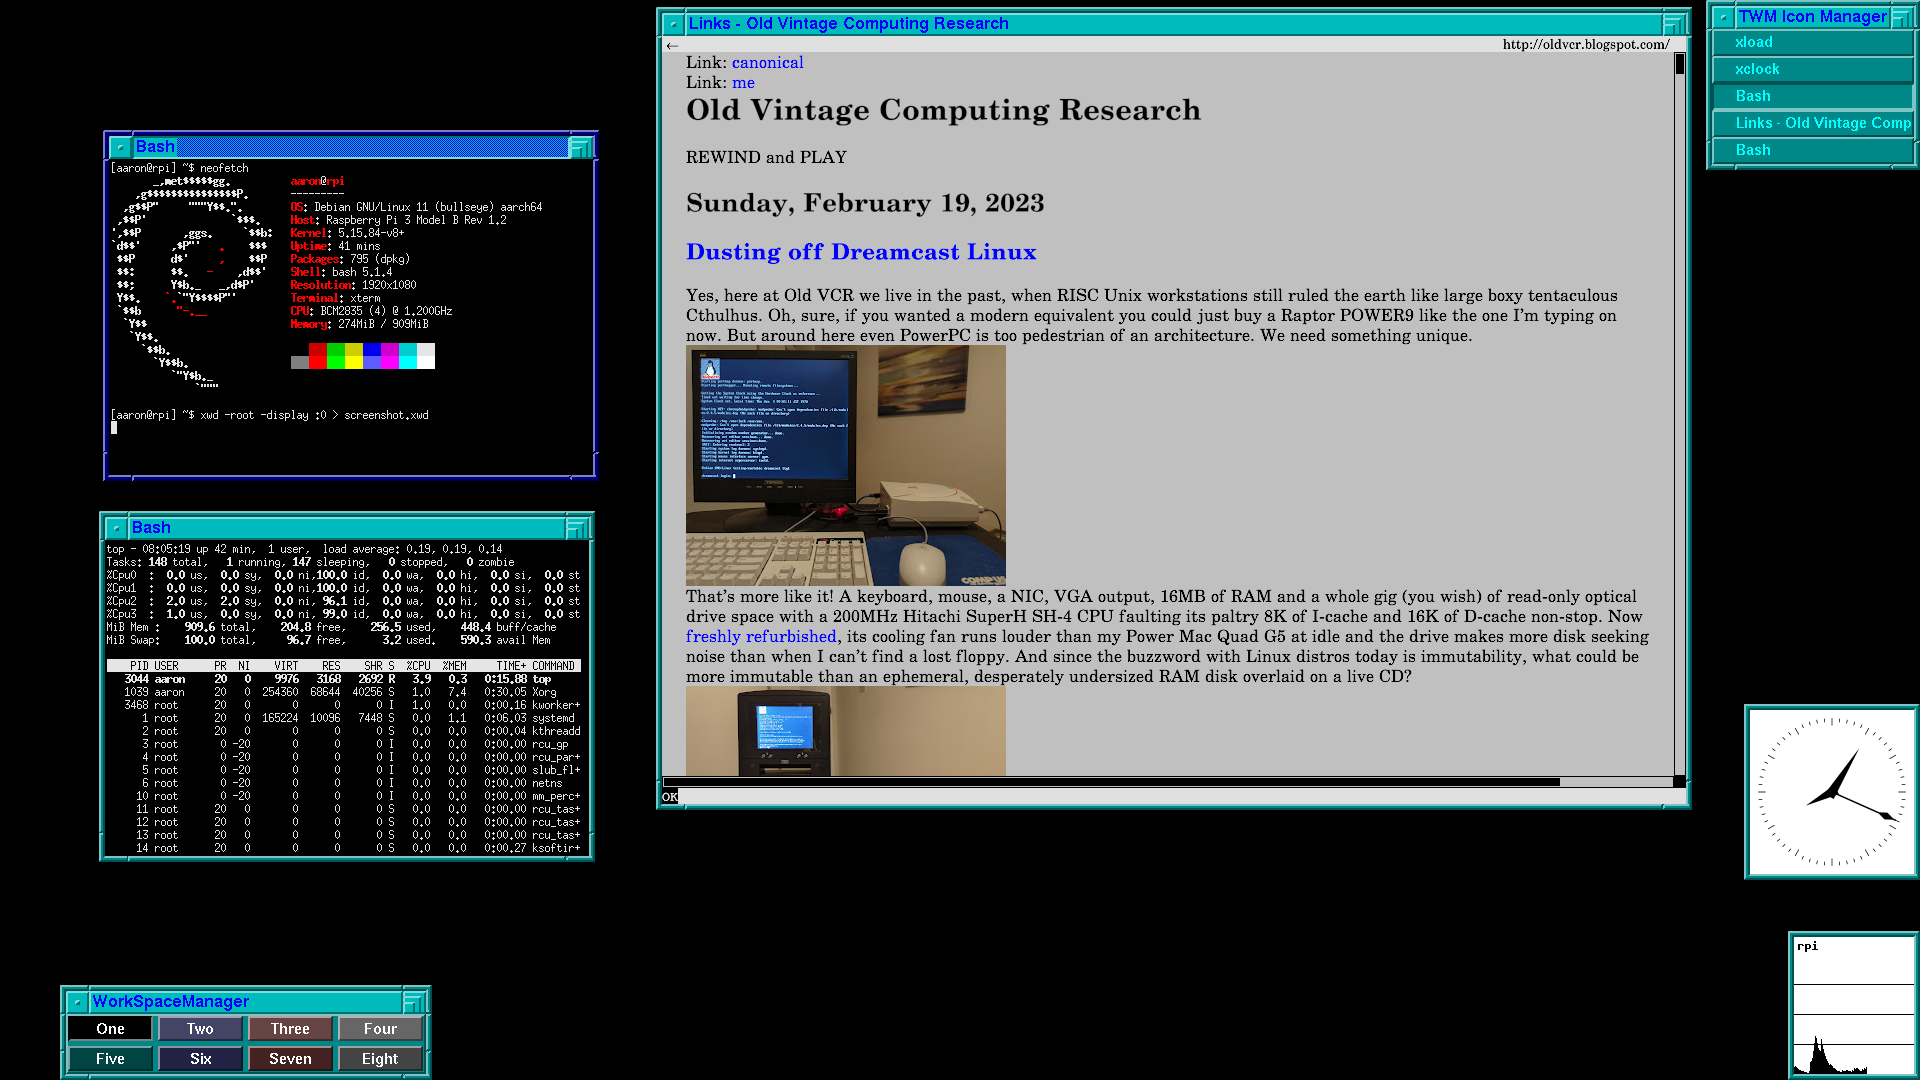
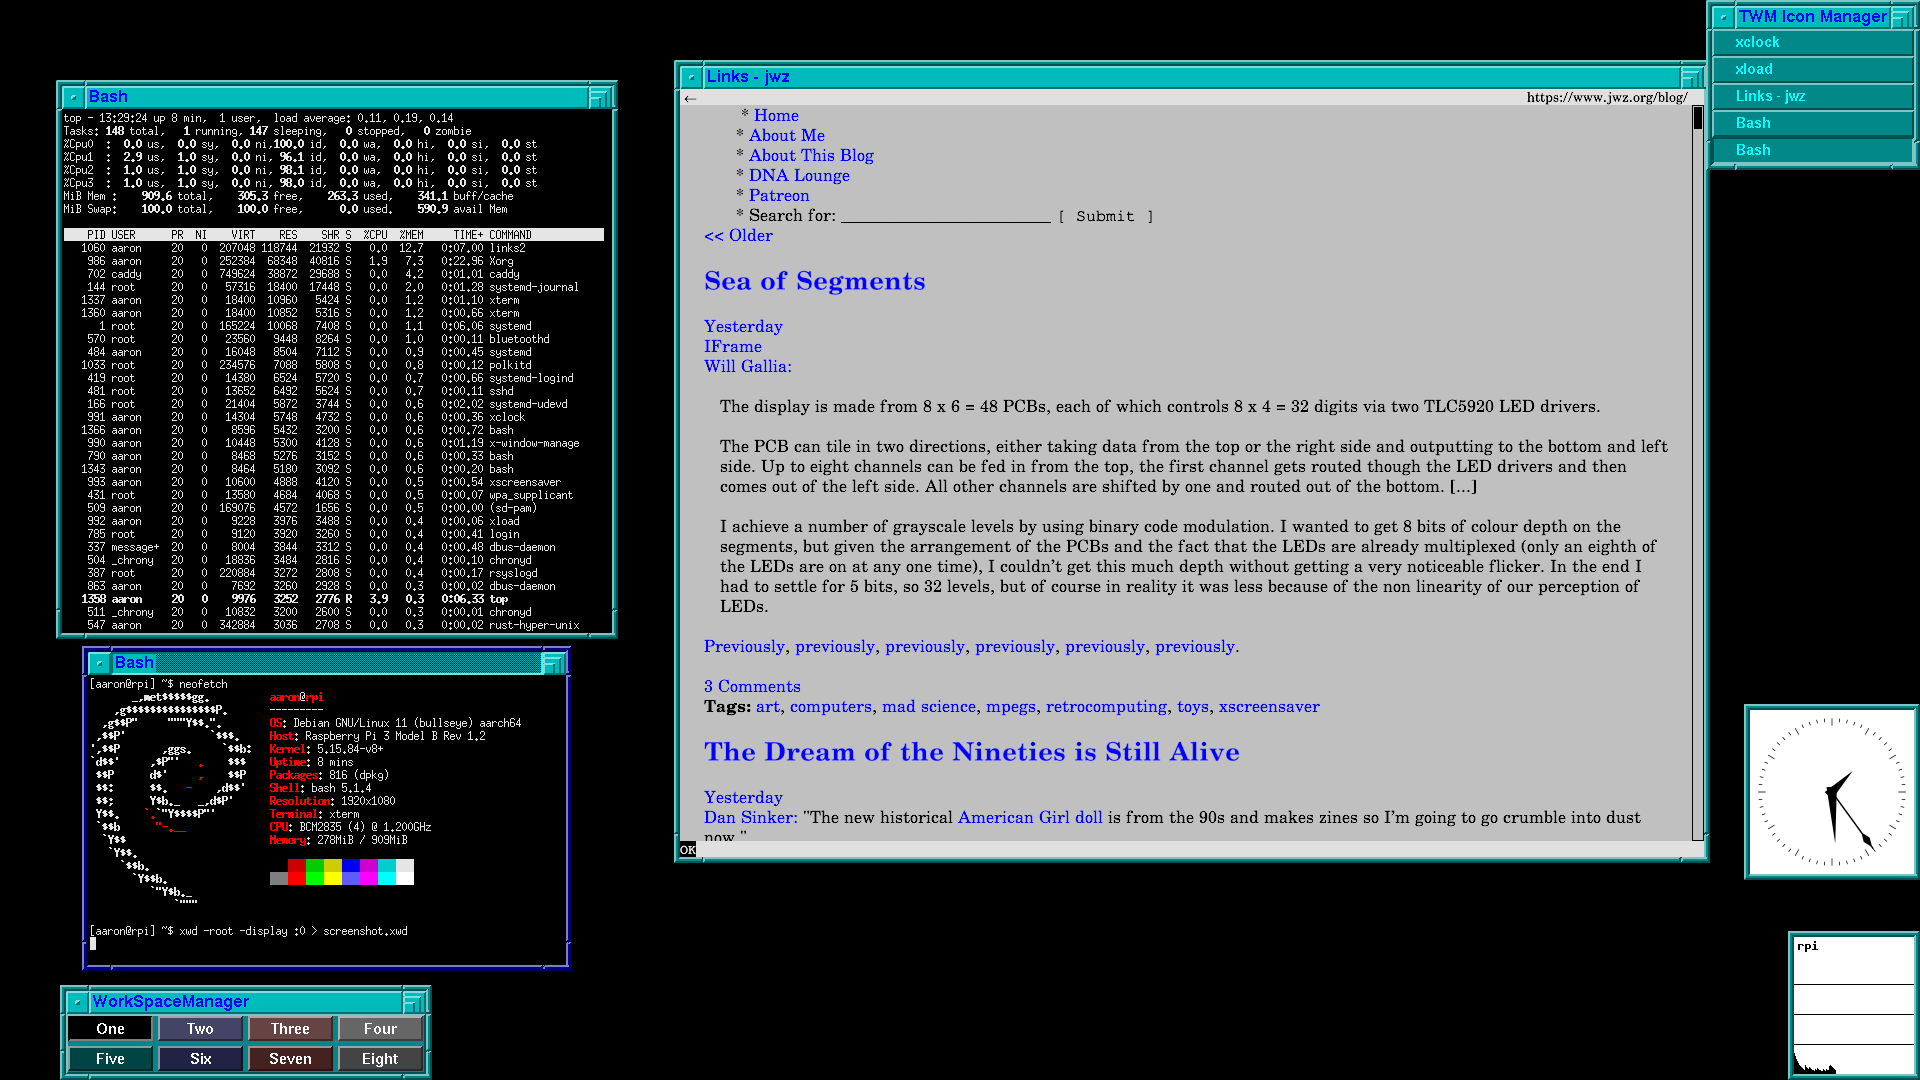
Update screenshot.

diff --git a/screenshot.html b/screenshot.html
@@ -13,8 +13,8 @@
     <li><a href="https://www.raspberrypi.com/software/operating-systems/">Raspberri Pi OS Lite 64-bit</a> manual install of <a href="https://wiki.debian.org/Xorg">xorg</a> and other packages.</li>
     <li><a href="https://www.ctwm.org">CTWM Window Manger</a></li>
     <li><a href="http://links.twibright.com/">links2 web browser</a> (surprisingly fast and usable on many pages, no javascript).</li>
-    <li>xterm, xclock, xload</li>
-    <li>A usable desktop in ~275MB of RAM (out of 1GB on the RPI 3B).</li>
+    <li>xterm, xclock, xload.  Upper xterm is running: <pre>top -o RES</pre> sorting processes by resident memory usage.</li>
+    <li>A usable desktop and webserver in ~275MB of RAM (out of 1GB on the RPI 3B).</li>
   </ul>
   <hr>
   <table border="0" class="center">
